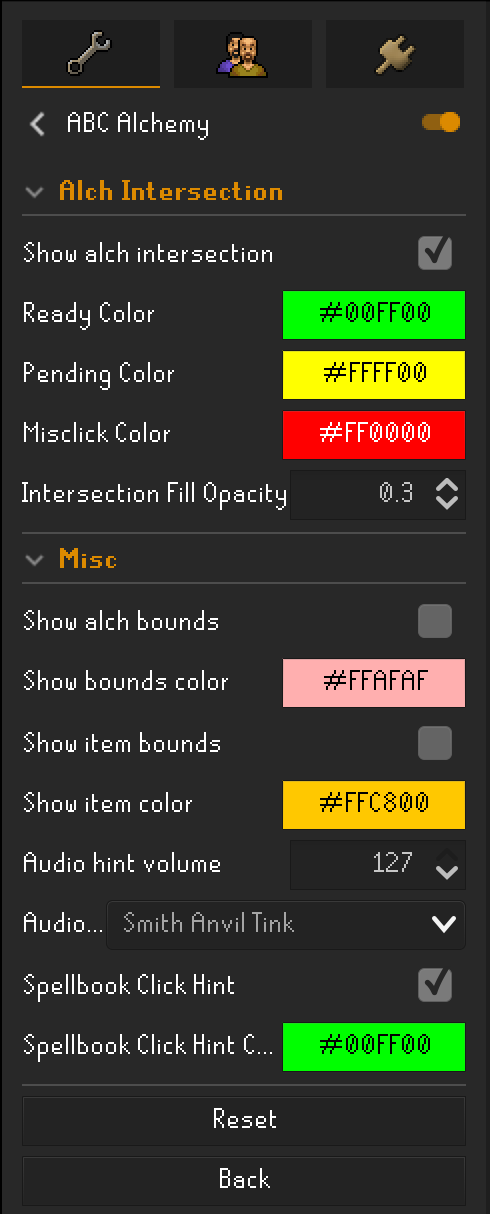
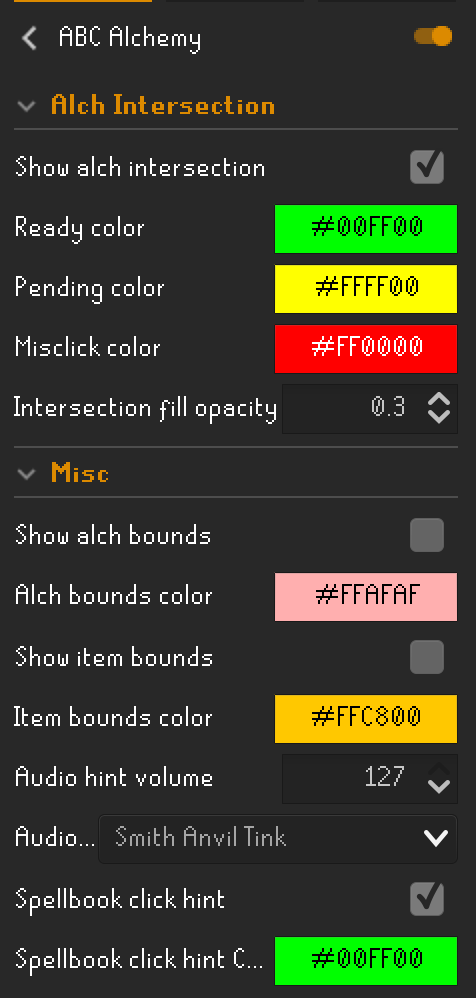
Normalize / fix config names.

diff --git a/src/main/java/com/vartan/abc/AbcAlchConfig.java b/src/main/java/com/vartan/abc/AbcAlchConfig.java
@@ -29,7 +29,7 @@ public interface AbcAlchConfig extends Config {
 
     @ConfigItem(
             keyName = "readyColor",
-            name = "Ready Color",
+            name = "Ready color",
             description = "Shown on the spellbook when alchemy is ready, and in the inventory when the mouse is over " +
                     "the alch intersection area.",
             section = alchIntersectionSection,
@@ -41,7 +41,7 @@ public interface AbcAlchConfig extends Config {
 
     @ConfigItem(
             keyName = "pendingColor",
-            name = "Pending Color",
+            name = "Pending color",
             description = "Shown while the player is busy casting alchemy.",
             section = alchIntersectionSection,
             position = 2
@@ -52,7 +52,7 @@ public interface AbcAlchConfig extends Config {
 
     @ConfigItem(
             keyName = "misclickColor",
-            name = "Misclick Color",
+            name = "Misclick color",
             description = "Shown when the next click will perform alchemy and the mouse isn't in the alch " +
                     "intersection area, or otherwise when clicking in the intersection would not be productive.",
             section = alchIntersectionSection,
@@ -64,7 +64,7 @@ public interface AbcAlchConfig extends Config {
 
     @ConfigItem(
             keyName = "intersectionFillOpacity",
-            name = "Intersection Fill Opacity",
+            name = "Intersection fill opacity",
             description = "From 0-1, how opaque should the intersection be filled?",
             section = alchIntersectionSection,
             position = 4
@@ -93,7 +93,7 @@ public interface AbcAlchConfig extends Config {
 
     @ConfigItem(
             keyName = "Alch bounds color",
-            name = "Show bounds color",
+            name = "Alch bounds color",
             description = "What color to draw around the alchemy spell, when enabled.",
             section = miscSection,
             position = 1
@@ -116,7 +116,7 @@ public interface AbcAlchConfig extends Config {
 
     @ConfigItem(
             keyName = "Alch item color",
-            name = "Show item color",
+            name = "Item bounds color",
             description = "What color to draw around the optimal item, when enabled.",
             section = miscSection,
             position = 3
@@ -150,7 +150,7 @@ public interface AbcAlchConfig extends Config {
 
     @ConfigItem(
             keyName = "spellbookClickHint",
-            name = "Spellbook Click Hint",
+            name = "Spellbook click hint",
             description = "Whether to draw a box around the spellbook tab when clicking it is necessary for the next " +
                     "alch.",
             section = miscSection,
@@ -162,7 +162,7 @@ public interface AbcAlchConfig extends Config {
 
     @ConfigItem(
             keyName = "spellbookClickHintColor",
-            name = "Spellbook Click Hint Color",
+            name = "Spellbook click hint Color",
             description = "What color to draw around the spellbook when spellbook click hint is enabled.",
             section = miscSection,
             position = 6
